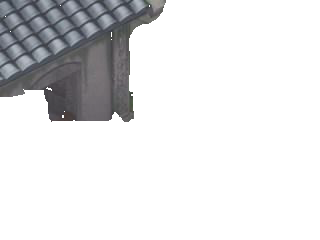
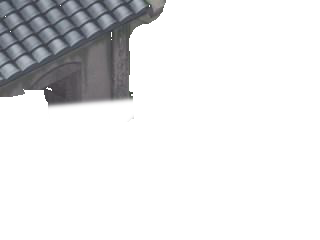
add a home

Changed region(s): [[0.125, 0.4083, 0.4375, 0.525]]

diff --git a/core/src/com/v5ent/game/map/HomeMap.java b/core/src/com/v5ent/game/map/HomeMap.java
@@ -1,0 +1,152 @@
+package com.v5ent.game.map;
+
+import com.badlogic.gdx.Gdx;
+import com.badlogic.gdx.math.Vector2;
+import com.badlogic.gdx.utils.Array;
+import com.badlogic.gdx.utils.Json;
+import com.v5ent.game.audio.AudioObserver;
+import com.v5ent.game.ecs.Component;
+import com.v5ent.game.ecs.player.PlayerPhysicsComponent;
+import com.v5ent.game.entity.Entity;
+import com.v5ent.game.entity.EntityConfig;
+import com.v5ent.game.entity.EntityFactory;
+import com.v5ent.game.profile.ProfileManager;
+import com.v5ent.game.sfx.ParticleEffectFactory;
+
+public class HomeMap extends Map{
+    private static final String TAG = PlayerPhysicsComponent.class.getSimpleName();
+
+    private static String _mapPath = "maps/home.tmx";
+    private Json _json;
+
+    HomeMap(){
+        super(MapFactory.MapType.HOME, _mapPath);
+        Gdx.app.debug(TAG, "Loading HOME MAP:"+_mapPath);
+        _json = new Json();
+
+        if(_npcStartPositions!=null){
+        	for( Vector2 position: _npcStartPositions){
+        		Entity entity = EntityFactory.getInstance().getEntityByName(EntityFactory.EntityName.TOWN_GUARD_WALKING);
+        		entity.sendMessage(Component.MESSAGE.INIT_START_POSITION, _json.toJson(position));
+        		_mapEntities.add(entity);
+        	}
+        }
+
+        //Special cases
+        Entity blackSmith = EntityFactory.getInstance().getEntityByName(EntityFactory.EntityName.TOWN_BLACKSMITH);
+        initSpecialEntityPosition(blackSmith);
+        _mapEntities.add(blackSmith);
+
+        Entity mage = EntityFactory.getInstance().getEntityByName(EntityFactory.EntityName.TOWN_MAGE);
+        initSpecialEntityPosition(mage);
+        _mapEntities.add(mage);
+        
+        Entity target = EntityFactory.getInstance().getEntityByName(EntityFactory.EntityName.TARGET);
+        initSpecialEntityPosition(target);
+        _mapEntities.add(target);
+
+        Entity innKeeper = EntityFactory.getInstance().getEntityByName(EntityFactory.EntityName.TOWN_INNKEEPER);
+        initSpecialEntityPosition(innKeeper);
+        _mapEntities.add(innKeeper);
+        
+        Entity guanyin = EntityFactory.getInstance().getEntityByName(EntityFactory.EntityName.NPC_GUANYIN);
+        initSpecialEntityPosition(guanyin);
+        _mapEntities.add(guanyin);
+
+        Entity townfolk1 = EntityFactory.getInstance().getEntityByName(EntityFactory.EntityName.TOWN_FOLK1);
+        initSpecialEntityPosition(townfolk1);
+        _mapEntities.add(townfolk1);
+
+        Entity townfolk2 = EntityFactory.getInstance().getEntityByName(EntityFactory.EntityName.TOWN_FOLK2);
+        initSpecialEntityPosition(townfolk2);
+        _mapEntities.add(townfolk2);
+
+        Entity townfolk3 = EntityFactory.getInstance().getEntityByName(EntityFactory.EntityName.TOWN_FOLK3);
+        initSpecialEntityPosition(townfolk3);
+        _mapEntities.add(townfolk3);
+
+        Entity townfolk4 = EntityFactory.getInstance().getEntityByName(EntityFactory.EntityName.TOWN_FOLK4);
+        initSpecialEntityPosition(townfolk4);
+        _mapEntities.add(townfolk4);
+
+        Entity townfolk5 = EntityFactory.getInstance().getEntityByName(EntityFactory.EntityName.TOWN_FOLK5);
+        initSpecialEntityPosition(townfolk5);
+        _mapEntities.add(townfolk5);
+
+        Entity townfolk6 = EntityFactory.getInstance().getEntityByName(EntityFactory.EntityName.TOWN_FOLK6);
+        initSpecialEntityPosition(townfolk6);
+        _mapEntities.add(townfolk6);
+
+        Entity townfolk7 = EntityFactory.getInstance().getEntityByName(EntityFactory.EntityName.TOWN_FOLK7);
+        initSpecialEntityPosition(townfolk7);
+        _mapEntities.add(townfolk7);
+
+        Entity townfolk8 = EntityFactory.getInstance().getEntityByName(EntityFactory.EntityName.TOWN_FOLK8);
+        initSpecialEntityPosition(townfolk8);
+        _mapEntities.add(townfolk8);
+
+        Entity townfolk9 = EntityFactory.getInstance().getEntityByName(EntityFactory.EntityName.TOWN_FOLK9);
+        initSpecialEntityPosition(townfolk9);
+        _mapEntities.add(townfolk9);
+
+        Entity townfolk10 = EntityFactory.getInstance().getEntityByName(EntityFactory.EntityName.TOWN_FOLK10);
+        initSpecialEntityPosition(townfolk10);
+        _mapEntities.add(townfolk10);
+
+        Entity townfolk11 = EntityFactory.getInstance().getEntityByName(EntityFactory.EntityName.TOWN_FOLK11);
+        initSpecialEntityPosition(townfolk11);
+        _mapEntities.add(townfolk11);
+
+        Entity townfolk12 = EntityFactory.getInstance().getEntityByName(EntityFactory.EntityName.TOWN_FOLK12);
+        initSpecialEntityPosition(townfolk12);
+        _mapEntities.add(townfolk12);
+
+        Entity townfolk13 = EntityFactory.getInstance().getEntityByName(EntityFactory.EntityName.TOWN_FOLK13);
+        initSpecialEntityPosition(townfolk13);
+        _mapEntities.add(townfolk13);
+
+        Entity townfolk14 = EntityFactory.getInstance().getEntityByName(EntityFactory.EntityName.TOWN_FOLK14);
+        initSpecialEntityPosition(townfolk14);
+        _mapEntities.add(townfolk14);
+
+        Entity townfolk15 = EntityFactory.getInstance().getEntityByName(EntityFactory.EntityName.TOWN_FOLK15);
+        initSpecialEntityPosition(townfolk15);
+        _mapEntities.add(townfolk15);
+
+        Array<Vector2> candleEffectPositions = getParticleEffectSpawnPositions(ParticleEffectFactory.ParticleEffectType.CANDLE_FIRE);
+        for( Vector2 position: candleEffectPositions ){
+            _mapParticleEffects.add(ParticleEffectFactory.getParticleEffect(ParticleEffectFactory.ParticleEffectType.CANDLE_FIRE, position));
+        }
+
+        Array<Vector2> lanternEffectPositions = getParticleEffectSpawnPositions(ParticleEffectFactory.ParticleEffectType.LANTERN_FIRE);
+        for( Vector2 position: lanternEffectPositions ){
+            _mapParticleEffects.add(ParticleEffectFactory.getParticleEffect(ParticleEffectFactory.ParticleEffectType.LANTERN_FIRE, position));
+        }
+    }
+
+    @Override
+    public void unloadMusic() {
+        notify(AudioObserver.AudioCommand.MUSIC_STOP, AudioObserver.AudioTypeEvent.MUSIC_TOWN);
+    }
+
+    @Override
+    public void loadMusic() {
+        notify(AudioObserver.AudioCommand.MUSIC_LOAD, AudioObserver.AudioTypeEvent.MUSIC_TOWN);
+        notify(AudioObserver.AudioCommand.MUSIC_PLAY_LOOP, AudioObserver.AudioTypeEvent.MUSIC_TOWN);
+    }
+
+    private void initSpecialEntityPosition(Entity entity){
+        Vector2 position = new Vector2(0,0);
+
+        if( _specialNPCStartPositions.containsKey(entity.getEntityConfig().getEntityID()) ) {
+            position = _specialNPCStartPositions.get(entity.getEntityConfig().getEntityID());
+        }
+        entity.sendMessage(Component.MESSAGE.INIT_START_POSITION, _json.toJson(position));
+
+        //Overwrite default if special config is found
+        EntityConfig entityConfig = ProfileManager.getInstance().getProperty(entity.getEntityConfig().getEntityID(), EntityConfig.class);
+        if( entityConfig != null ){
+            entity.setEntityConfig(entityConfig);
+        }
+    }
+}

diff --git a/core/src/com/v5ent/game/map/MapManager.java b/core/src/com/v5ent/game/map/MapManager.java
@@ -20,7 +20,7 @@ import com.v5ent.game.profile.ProfileObserver;
 public class MapManager implements ProfileObserver {
     private static final String TAG = MapManager.class.getSimpleName();
     
-    private static final Vector2 START_POINT=new Vector2(16,14);
+    private static final Vector2 START_POINT=new Vector2(14,9);
     
     private Camera _camera;
     private boolean _mapChanged = false;
@@ -68,7 +68,7 @@ public class MapManager implements ProfileObserver {
                 Vector2 playerPosition = profileManager.getProperty("playerPosition", Vector2.class);
                 MapFactory.MapType mapType;
                 if( currentMap == null || currentMap.isEmpty() ){
-                    mapType = MapFactory.MapType.TOWN;
+                    mapType = MapFactory.MapType.HOME;
                 }else{
                     mapType = MapFactory.MapType.valueOf(currentMap);
                 }
@@ -92,7 +92,7 @@ public class MapManager implements ProfileObserver {
                 break;
             case CLEAR_CURRENT_PROFILE:
                 _currentMap = null;
-                profileManager.setProperty("currentMapType", MapFactory.MapType.TOWN.toString());
+                profileManager.setProperty("currentMapType", MapFactory.MapType.HOME.toString());
                 profileManager.setProperty("playerPosition", START_POINT.cpy().scl(32));
                 MapFactory.clearCache();
                 

diff --git a/core/src/com/v5ent/game/map/MapFactory.java b/core/src/com/v5ent/game/map/MapFactory.java
@@ -6,6 +6,7 @@ public class MapFactory {
     //All maps for the game
     private static Hashtable<MapType,Map> _mapTable = new Hashtable<MapType, Map>();
     public static enum MapType{
+    	HOME,
         TOP_WORLD,
         TOWN,
         CASTLE_OF_DOOM
@@ -23,15 +24,24 @@ public class MapFactory {
                 	map.tiledMapInit();
                 }
                 break;
-            case TOWN:
-                map = _mapTable.get(MapType.TOWN);
+            case HOME:
+                map = _mapTable.get(MapType.HOME);
                 if( map == null ){
-                    map = new TownMap();
-                    _mapTable.put(MapType.TOWN, map);
+                    map = new HomeMap();
+                    _mapTable.put(MapType.HOME, map);
                 }else{
                 	map.tiledMapInit();
                 }
                 break;
+            case TOWN:
+            	map = _mapTable.get(MapType.TOWN);
+            	if( map == null ){
+            		map = new TownMap();
+            		_mapTable.put(MapType.TOWN, map);
+            	}else{
+            		map.tiledMapInit();
+            	}
+            	break;
             case CASTLE_OF_DOOM:
                 map = _mapTable.get(MapType.CASTLE_OF_DOOM);
                 if( map == null ){
